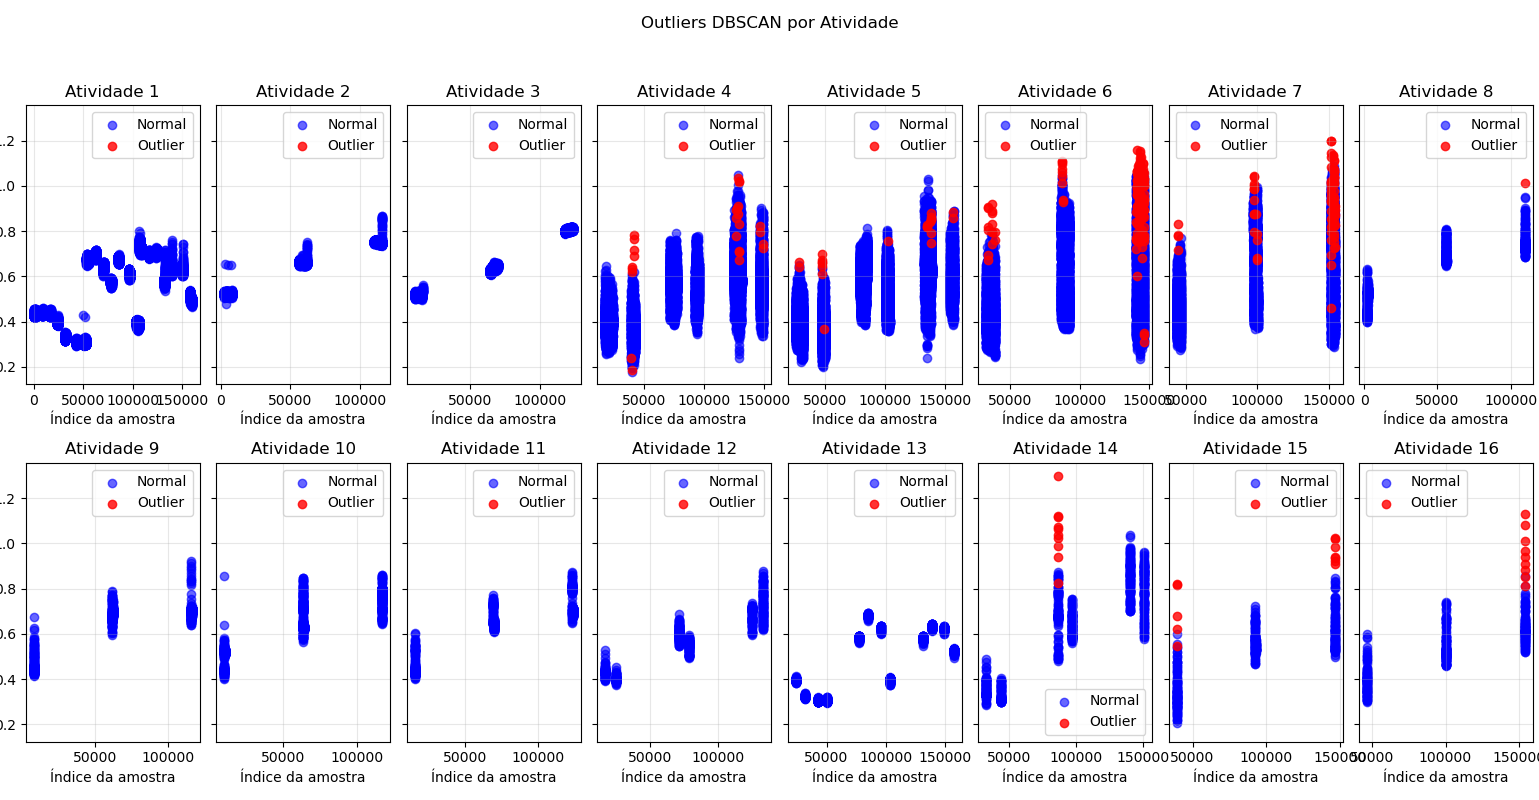
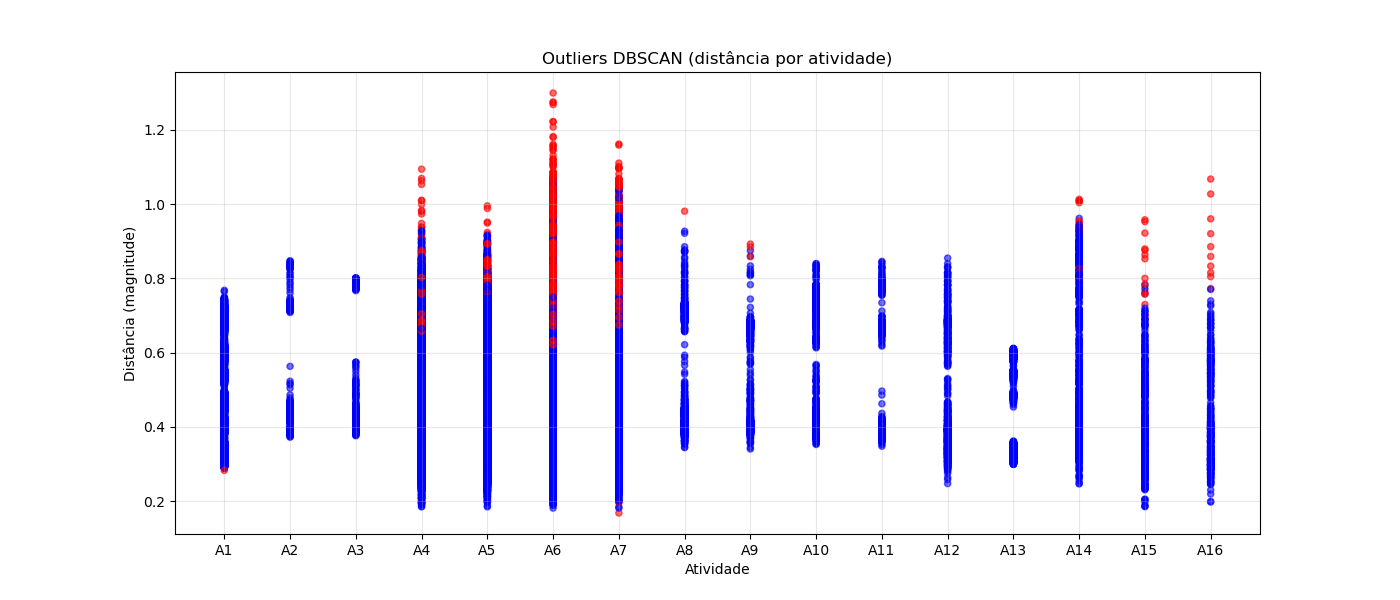
refactor: enhance feature extraction and selection with progress tracking
- Updated .gitignore to remove trained models and pickle files
- Improved feature extraction and selection scripts to include progress tracking
- Added timing logs for PCA and DBSCAN processes
- Adjusted main script to streamline imports and participant selection
- Added new k-means outliers graph and updated DBSCAN outliers graph

diff --git a/meta1/features/feature_extractor.py b/meta1/features/feature_extractor.py
@@ -4,6 +4,8 @@ import scipy.fft as fft
 from sklearn.decomposition import PCA
 from sklearn.preprocessing import StandardScaler
 from utils.config import DEBUG
+from utils.progress import progress_with_time
+import time
 
 #Trabalho Realizado por:
   #Martim Alves Rodrigues da Costa Duarte nº 2021275991
@@ -184,7 +186,12 @@ def extract_features_4_2(accel_data, gyro_data, mag_data, activities, sampling_r
     if participant_ids is not None:
         participant_ids = np.asarray(participant_ids)
 
-    for start_idx in range(0, len(accel_data) - window_size + 1, step_size):
+    start_time = time.time()
+    all_indices = list(range(0, len(accel_data) - window_size + 1, step_size))
+    total_iterations = len(all_indices)
+
+    for idx_count, start_idx in enumerate(all_indices):
+        progress_with_time(idx_count, total_iterations, start_time, label="Extração de features")
         end_idx = start_idx + window_size
         total_windows += 1
         
@@ -229,10 +236,8 @@ def extract_features_4_2(accel_data, gyro_data, mag_data, activities, sampling_r
             except Exception as e:
                 print(f"Erro na janela {start_idx}-{end_idx}: {e}")
                 continue
-        
-        # Progresso a cada 1000 janelas
-        if (total_windows % 1000 == 0) and DEBUG:
-            print(f"Processadas {total_windows} janelas...")
+    
+    progress_with_time(total_iterations, total_iterations, start_time, label="Extração de features")
     
     # 4. Converter para arrays numpy
     X = np.array(features_list)  # Features matrix
@@ -258,20 +263,27 @@ def pca_analysis(X_features, target_variance=0.75):
     """Faz análise PCA completa""" # Principal Component Analysis
     
     # Normalizar
+    start_time = time.time()
+    print("Normalizando features...")
     scaler = StandardScaler()
     X_normalized = scaler.fit_transform(X_features) # Normalização das features antes do PCA é crucial para garantir que a variância de cada feature seja considerada igualmente no cálculo das componentes principais.
+    print(f"Features normalizadas em {time.time() - start_time:.2f}s")
     
     # PCA completo para análise
+    start_time = time.time()
+    print(f"Executando PCA com target_variance={target_variance}...")
     pca_full = PCA()
     pca_full.fit(X_normalized) # Encontra a melhor combinação linear das features que captura a maior parte da variância nos dados.
     
     # Encontrar componentes para variância alvo
     variancia_acumulada = np.cumsum(pca_full.explained_variance_ratio_) #soma a variância explicada por cada componente principal de forma acumulativa.
     n_components = np.argmax(variancia_acumulada >= target_variance) + 1 # verifica o primeiro índice onde a variância acumulada atinge ou excede o valor alvo (75% neste caso).
+    print(f"Dimensionalidade reduzida de {X_features.shape[1]} para {n_components} componentes")
     
     # PCA final com componentes certos
     pca_final = PCA(n_components=n_components)
     X_pca = pca_final.fit_transform(X_normalized) # Reduz os dados normalizados para o número ótimo de componentes principais.
+    print(f"PCA concluído em {time.time() - start_time:.2f}s")
     
     # Resultados
     print(f"PCA: {X_features.shape[1]} → {n_components} componentes")

diff --git a/meta1/outliers/dbscan.py b/meta1/outliers/dbscan.py
@@ -3,6 +3,8 @@ import matplotlib.pyplot as plt
 from sklearn.cluster import DBSCAN
 from math import ceil
 from utils.config import DEBUG
+from utils.progress import progress_with_time
+import time
 
 #Trabalho Realizado por:
   #Martim Alves Rodrigues da Costa Duarte nº 2021275991
@@ -47,8 +49,18 @@ def dbscan_cluster(data, labels, atividades, eps=0.5, min_samples=20):
     labels_filtrados = labels[mask]
 
     # Aplicar DBSCAN
-    db = DBSCAN(eps=eps, min_samples=min_samples,algorithm= 'ball_tree',n_jobs=-1)
-    clusters = db.fit_predict(data_filtrada)
+    start_time = time.time()
+    print("Executando DBSCAN (algoritmo: kdtree)...")
+    try:
+        db = DBSCAN(eps=eps, min_samples=min_samples, algorithm='kd_tree', n_jobs=1)
+        clusters = db.fit_predict(data_filtrada)
+    except MemoryError:
+        print("Memória insuficiente com kdtree, tentando com brute force...")
+        db = DBSCAN(eps=eps, min_samples=min_samples, algorithm='brute', n_jobs=1)
+        clusters = db.fit_predict(data_filtrada)
+    
+    elapsed = time.time() - start_time
+    print(f"DBSCAN concluído em {elapsed:.2f}s")
 
     unique_acts = np.unique(labels_filtrados)
     print("\nDensidade de outliers por atividade:")
@@ -94,7 +106,9 @@ def plot_dbscan_results_3d(data, clusters, labels, atividades, title="DBSCAN por
 
     colors = ['red', 'blue', 'green', 'orange', 'purple', 'brown', 'pink', 'gray']
 
-    for atividade in atividades:
+    start_time = time.time()
+    for idx, atividade in enumerate(atividades):
+        progress_with_time(idx, len(atividades), start_time, label="Plotando DBSCAN")
         #criar mascara das atividades selecionadas
         mask = labels == atividade
         if np.sum(mask) == 0:
@@ -125,7 +139,13 @@ def plot_dbscan_results_3d(data, clusters, labels, atividades, title="DBSCAN por
         plt.tight_layout()
         plt.show()
 
+    progress_with_time(len(atividades), len(atividades), start_time, label="Plotando DBSCAN")
+
 def plot_dbscan_outliers(data, clusters, activities):
+    """
+    Plota num único gráfico: eixo X = atividade, Y = distância (magnitude).
+    Outliers a vermelho, normais a azul.
+    """
     activities = np.asarray(activities)
     unique_activities = np.unique(activities)
 
@@ -138,8 +158,10 @@ def plot_dbscan_outliers(data, clusters, activities):
         d_act = data[mask]
         c_act = clusters[mask]
 
+        # Outliers são identificados por cluster == -1
         out = (c_act == -1)
 
+        # Calcular magnitude/distância de cada ponto
         if d_act.ndim > 1:
             y = np.linalg.norm(d_act, axis=1)
         else:
@@ -154,12 +176,11 @@ def plot_dbscan_outliers(data, clusters, activities):
     colors = np.concatenate(colors)
 
     plt.figure(figsize=(14, 6))
-    plt.scatter(x_vals, y_vals, c=colors, alpha=0.6, s=20)
-
+    plt.scatter(x_vals, y_vals, c=colors, alpha=0.6, s=20) 
     plt.xticks(unique_activities, [f"A{int(a)}" for a in unique_activities])
     plt.xlabel("Atividade")
-    plt.ylabel("Magnitude / Distância")
-    plt.title("Outliers DBSCAN por Atividade")
+    plt.ylabel("Distância (magnitude)")
+    plt.title("Outliers DBSCAN (distância por atividade)")
     plt.grid(True, alpha=0.3)
     plt.show()
 

diff --git a/meta1/meta1_main.py b/meta1/meta1_main.py
@@ -13,26 +13,15 @@ sys.path.append(str(ROOT))
 
 DATA_PROCESSED = ROOT / "data" / "processed"
 
-# IMPORTS AJUSTADOS À ESTRUTURA NOVA
-try:
-    from meta1.preprocessing import data_treatment, statistic_significance
-    from meta1.outliers import boxplot, k_means, zscore as z
-    from meta1.features import feature_extractor as fe, feature_selection as fs
-    from utils.config import DEBUG
-except ImportError:
-    # Fallback - tentar importar diretamente
-    try:
-        from meta1.preprocessing import data_treatment, statistic_significance
-        from meta1.outliers import boxplot, k_means, zscore as z
-        from meta1.features import feature_extractor as fe, feature_selection as fs
-        from utils.config import DEBUG
-    except ImportError:
-        DEBUG = False
-        pass
+from meta1.preprocessing import data_treatment, statistic_significance
+from meta1.outliers import boxplot, k_means, dbscan,zscore as z
+from meta1.features import feature_extractor as fe, feature_selection as fs
+from utils.config import DEBUG
 
-# Todos os participantes para 3.1 (como exige o enunciado)
-all_participants = list(range(15))
-all_sensors = [1, 2, 3, 4, 5]
+
+# Todos os participantes para 3.1
+all_participants = [1,2,3]
+all_sensors = [1,2,3]
 
 # Participante para features / Kmeans / DBSCAN
 participant_selected = 3
@@ -117,7 +106,7 @@ k_means.plot_kmeans_outliers(distances, labels_filt, outliers_kmeans)
 # ======================================================================
 # 3.7.1) DBSCAN (BÓNUS) – comentado se não quiseres correr sempre
 # ======================================================================
-"""
+
 print("\n=== 3.7.1 - DBSCAN (BÓNUS) ===")
 
 eps = 0.04
@@ -125,14 +114,13 @@ db_data, db_clusters, db_labels = dbscan.dbscan_cluster(
     modules_norm, activities, atividades_selecionadas, eps
 )
 
-dbscan.plot_dbscan_results_3d(db_data, db_clusters, db_labels, atividades_selecionadas)
+#dbscan.plot_dbscan_results_3d(db_data, db_clusters, db_labels, atividades_selecionadas)
 dbscan.plot_dbscan_outliers(db_data, db_clusters, db_labels)
-"""
+
 
 # ======================================================================
 # 4.1) SIGNIFICÂNCIA ESTATÍSTICA
 # ======================================================================
-
 print("\n=== 4.1 - SIGNIFICÂNCIA ESTATÍSTICA ===")
 
 modules_norm2 = data_treatment.normalize_range(modules)
@@ -162,8 +150,6 @@ participants_windows = np.array([
     for info in winfo
 ], dtype=int)
 np.savetxt(DATA_PROCESSED / "features_participant.csv", participants_windows, delimiter=",", fmt="%d")
-
-print(f"Features extraídas. Shape: {Xfeat.shape}")
 
 # ======================================================================
 # 4.3) PCA

diff --git a/meta1/features/feature_selection.py b/meta1/features/feature_selection.py
@@ -1,6 +1,8 @@
 import numpy as np
 from sklearn.feature_selection import f_classif
 from skrebate import ReliefF
+from utils.progress import progress_with_time
+import time
 
 #Trabalho Realizado por:
   #Martim Alves Rodrigues da Costa Duarte nº 2021275991
@@ -30,9 +32,12 @@ def fisher_score_selection(X, y, top_n=10):
     F : np.ndarray
         Scores F de todas as features.
     """
-     
+    start_time = time.time()
+    print("Calculando Fisher Score...")
     F, _ = f_classif(X, y) 
     top_idx = np.argsort(F)[::-1][:top_n]
+    elapsed = time.time() - start_time
+    print(f"Fisher Score calculado em {elapsed:.2f}s")
     return top_idx, F
 
 def reliefF_selection(X, y, top_n=10, n_neighbors=10):
@@ -57,10 +62,14 @@ def reliefF_selection(X, y, top_n=10, n_neighbors=10):
     scores : np.ndarray
         Importância atribuída a cada feature.
     """
+    start_time = time.time()
+    print("Calculando ReliefF (pode ser longo)...")
     relief = ReliefF(n_neighbors=n_neighbors, n_features_to_select=top_n)
     relief.fit(X, y)
     top_idx = relief.top_features_[:top_n]
     scores = relief.feature_importances_
+    elapsed = time.time() - start_time
+    print(f"ReliefF calculado em {elapsed:.2f}s")
     return top_idx, scores
 
 def print_selection(name, indices, scores, feature_names):

diff --git a/meta1/outliers/k_means.py b/meta1/outliers/k_means.py
@@ -1,7 +1,8 @@
 import numpy as np
 import matplotlib.pyplot as plt
 from utils.config import DEBUG
-from utils.progress import progress_bar
+from utils.progress import progress_bar, progress_with_time
+import time
 
 #Trabalho Realizado por:
   #Martim Alves Rodrigues da Costa Duarte nº 2021275991
@@ -47,8 +48,9 @@ def k_means_manual(data, labels, atividades, k, max_iters=100):
     # Fazer os centroides com os indices
     centroids = data_filtrada[indices]
 
+    start_time = time.time()
     for iter_num in range(max_iters):
-        progress_bar(iter_num, max_iters, label="K-means iterations")
+        progress_with_time(iter_num, max_iters, start_time, label="K-means iterations")
         
         # Cria uma matriz para guardar o valor da distancia para cada cluster
         distances = np.linalg.norm(data_filtrada[:, np.newaxis, :] - centroids[np.newaxis, :, :], axis=2)
@@ -75,6 +77,8 @@ def k_means_manual(data, labels, atividades, k, max_iters=100):
 
         # Atualiza os centroides
         centroids = new_centroids
+
+    progress_with_time(max_iters, max_iters, start_time, label="K-means iterations")
 
     # Calcular as distancias finais para detecao de outliers
     final_distances = np.linalg.norm(data_filtrada - centroids[clusters], axis=1)
